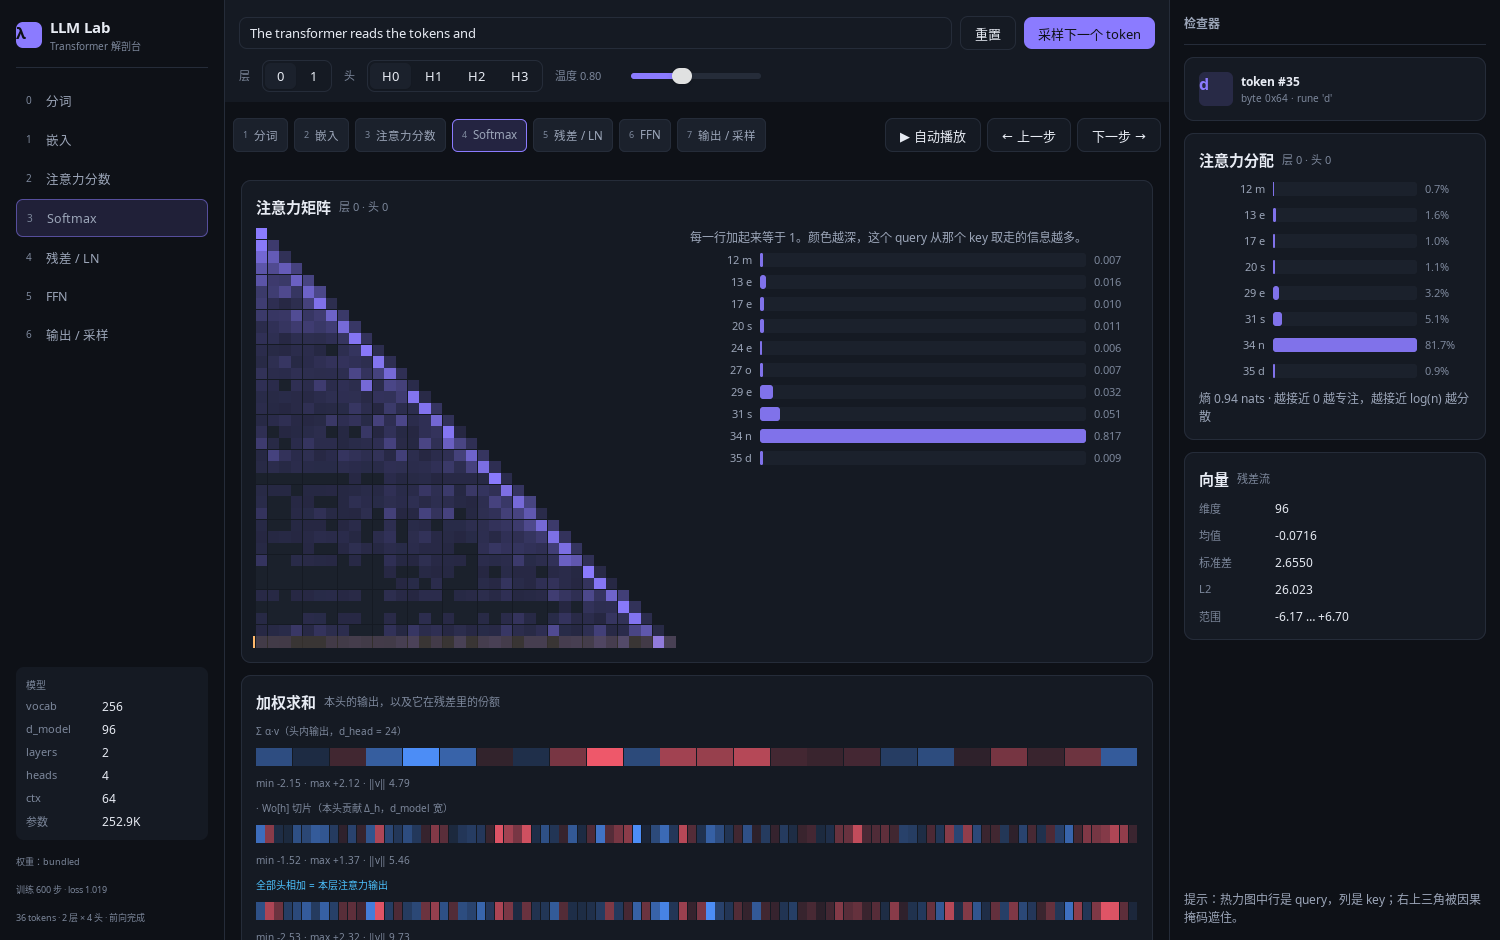
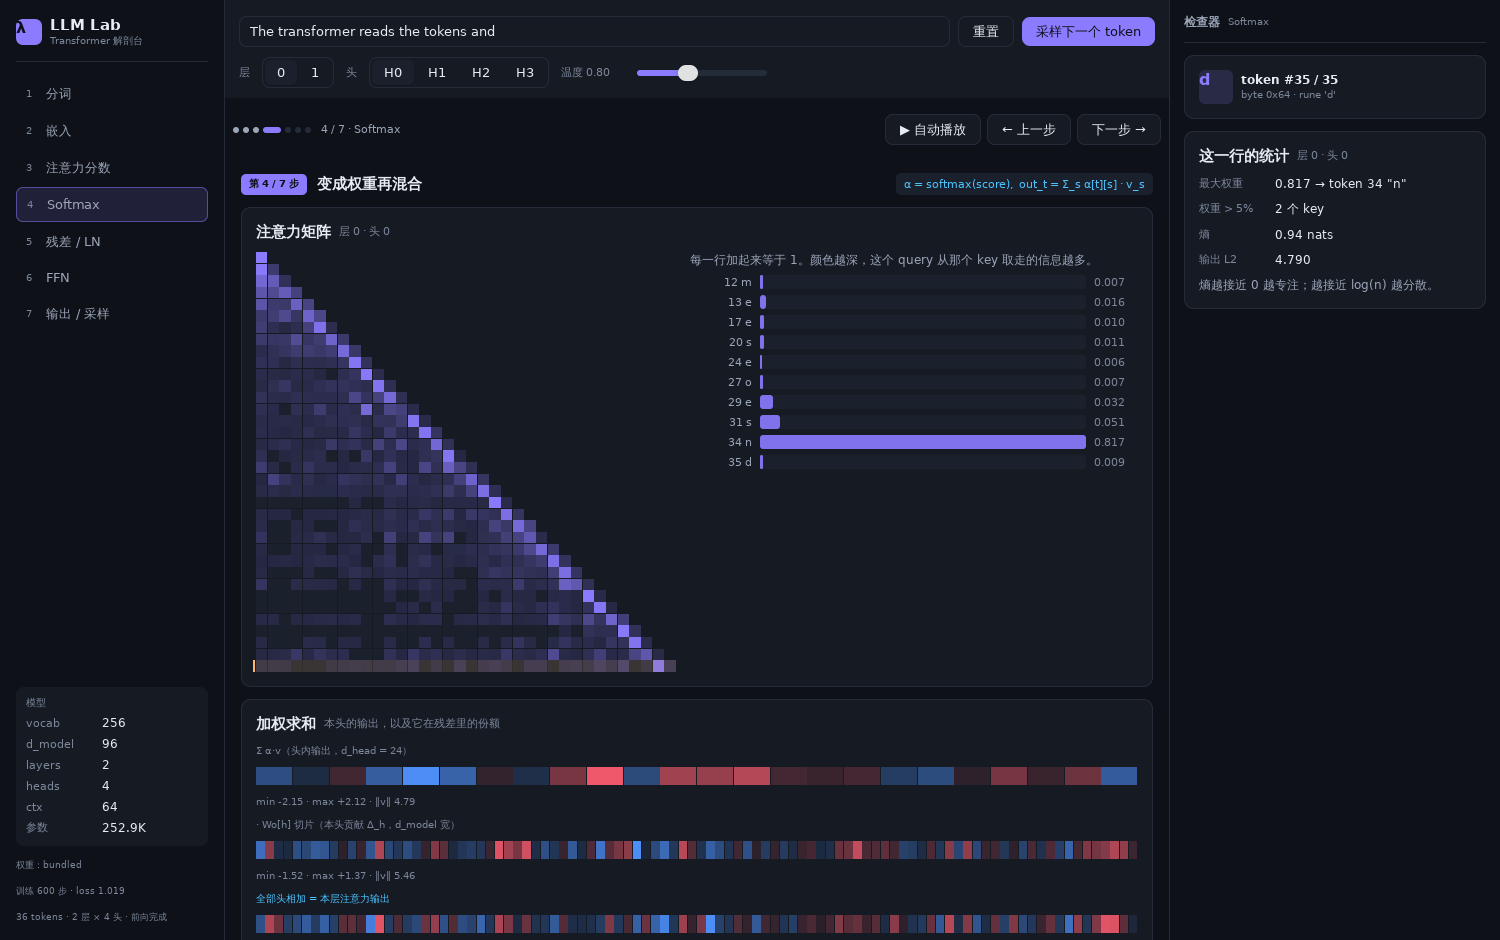
docs: update the interaction guide and hero screenshot
- Document the keyboard shortcuts and preset prompts in the README.
- Refresh the attention screenshot for the new header and inspector.
- List the new UI in the CHANGELOG.

diff --git a/README.md b/README.md
@@ -71,11 +71,16 @@ just check    # gofmt 检查 + go vet + go test（CI 同款）
 | 操作 | 效果 |
 | --- | --- |
 | 顶部输入框 | 改提示词，实时重跑前向 |
+| 示例胶囊（英文 / 中文 / 长提示词 / 空） | 一键切换提示词，演示 CJK 与截断 |
 | 层 / 头 分段控件 | 切换观察第几层、第几个注意力头 |
 | 温度滑块 | 实时重算 softmax 分布 |
-| 点击 token 胶囊 | 右侧检查器显示该 token 的注意力分配与向量统计 |
+| 点击 token 胶囊 | 右侧检查器显示该 token 在当前阶段的数值 |
 | 悬停热力图单元格 | 显示 (query, key, 分数, 权重)，点一下选中该行 |
 | 采样并续写 | 按当前温度抽一个 token 追加到提示词 |
+| `←` / `→` | 上一个 / 下一个阶段 |
+| `空格` | 自动播放 / 暂停 |
+| `1`–`7` | 直接跳到第 N 个阶段 |
+| `Esc` | 停止自动播放 |
 
 ## 七个阶段与代码的对应关系
 
@@ -129,7 +134,7 @@ go run . -weights /path/to/other.json  # 换一份权重（需为 vocab 256 的 
 - 权重很小，输出质量只够演示；中文输入可以分词和可视化，但模型没在中文上训练，续写没有意义
 - 只实现了前向传播，没有反向传播和训练过程可视化
 - 上下文 64 token，超出后截断到最近 64 个（左侧栏状态行会提示）；截断会前进到 UTF-8 字符边界，不会从半个汉字开始
-- 注意力矩阵依赖鼠标悬停，没有键盘导航
+- 注意力矩阵的数值仍靠鼠标悬停查看；键盘只覆盖阶段切换、播放与跳转
 - Linux 上若无 GPU，MyGo 会退回 CPU 绘制（日志提示 `native UI draws without the GPU`），界面功能不受影响
 
 ## 目录

diff --git a/CHANGELOG.md b/CHANGELOG.md
@@ -4,6 +4,15 @@
 
 ## [Unreleased]
 
+### Added
+
+- 阶段页头：`第 N / 7 步`、标题与公式固定在内容顶部，讲解正文移到末尾
+- 检查器随阶段切换：分词看字节与词表、嵌入看向量统计、注意力看分数/权重统计、FFN 看激活统计、输出看分布统计
+- 键盘导航：`←` / `→` 切换阶段、空格播放/暂停、`1`–`7` 直接跳转、`Esc` 停止
+- 示例提示词一键切换（英文 / 中文 / 长提示词 / 空），演示 CJK 三字节与上下文截断
+- 数据流与形状卡片：七个阶段的张量形状一览，点击跳转
+- 步骤条改为进度轨迹 + 当前阶段名，不再与侧栏重复
+
 ### Fixed
 
 - `-weights` 加载前校验模型形状、最终 LayerNorm 长度与 byte vocab，畸形权重不再在 `Forward` 崩溃
